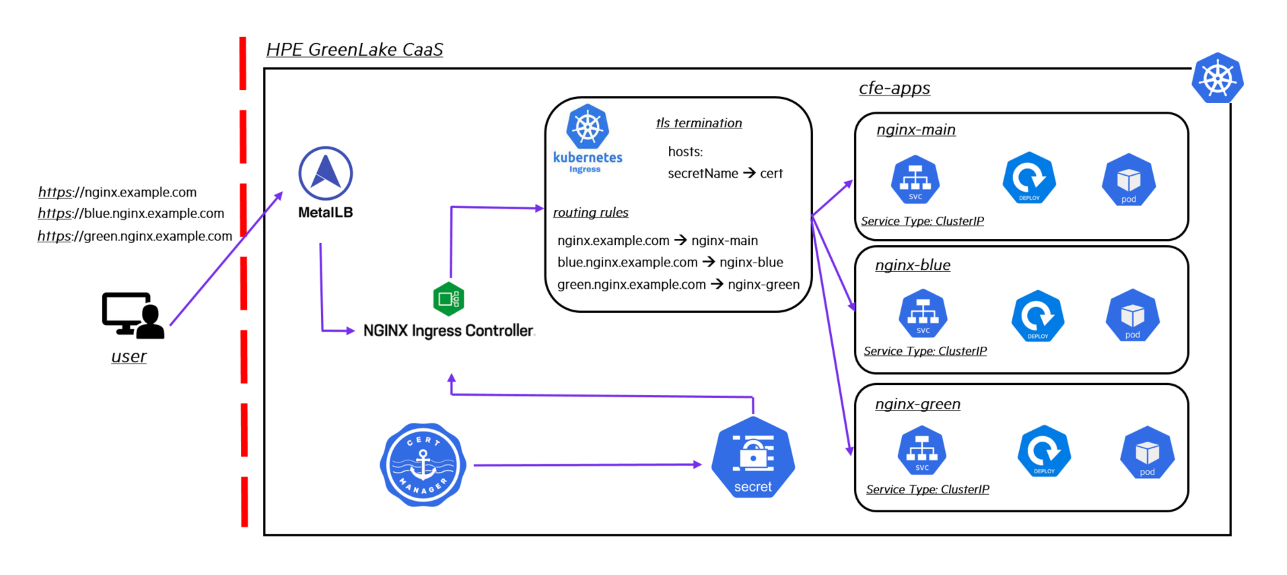
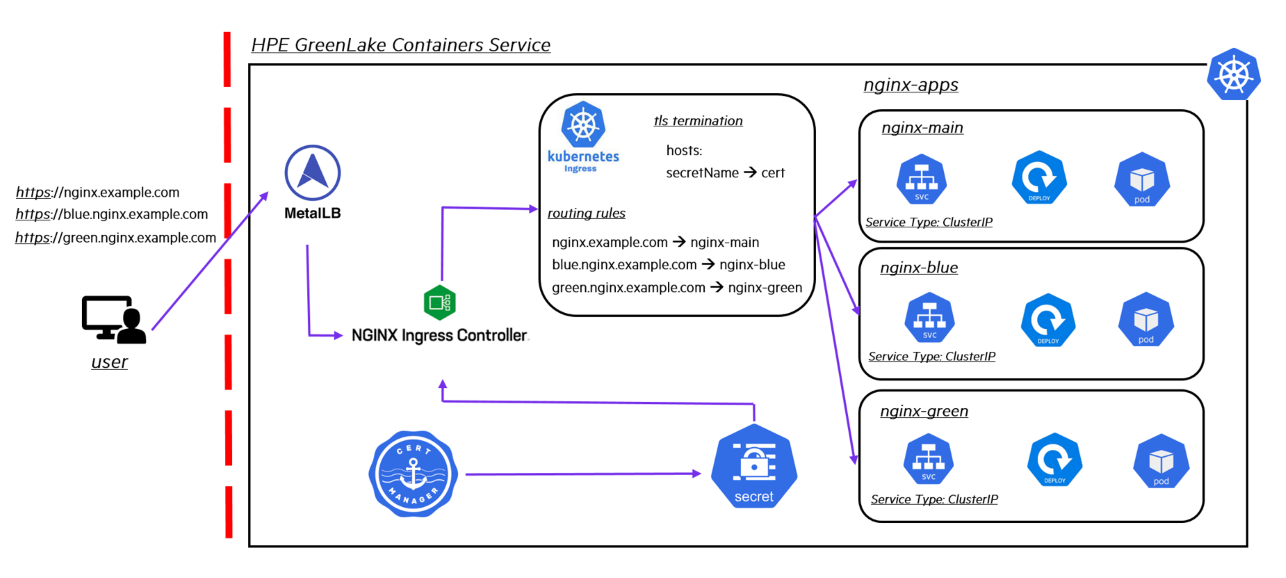
Update Blog “exposing-an-application-using-ingress-and-tls-termination-on-kubernetes-in-hpe-greenlake-for-private-cloud-enterprise”

Changed region(s): [[0.0, 0.0591, 0.9953, 0.9757], [0.7776, 0.7391, 0.8398, 0.8574]]

diff --git a/content/blog/exposing-an-application-using-ingress-and-tls-termination-on-kubernetes-in-hpe-greenlake-for-private-cloud-enterprise.md b/content/blog/exposing-an-application-using-ingress-and-tls-termination-on-kubernetes-in-hpe-greenlake-for-private-cloud-enterprise.md
@@ -24,9 +24,11 @@ This blog post describes the process to expose applications that are deployed an
 
 ### Overview
 
-[HPE GreenLake for Private Cloud Enterprise: Containers](https://www.hpe.com/us/en/greenlake/containers.html), one of the HPE GreenLake cloud services available on the HPE GreenLake for Private Cloud Enterprise, allows customers to create a Kubernetes (K8s) cluster, view details about existing clusters, and deploy containerized applications to the cluster. It provides an enterprise-grade container management service using open source K8s.  
+[HPE GreenLake for Private Cloud Enterprise: Containers](https://www.hpe.com/us/en/greenlake/containers.html) ("containers service"), one of the HPE GreenLake cloud services available on the HPE GreenLake for Private Cloud Enterprise, allows customers to create a K8s cluster and deploy containerized applications to the cluster. It provides an enterprise-grade container management service using open source K8s.  
  
-Once applications are deployed in a cluster, the first thing you can do is to create services to expose the applications. By default, services are created with the service types of *ClusterIP* that support internal connectivity between different components of the applications. In HPE GreenLake for Private Cloud Enterprise: Containers, you can create services with the type of NodePort for the application workloads deployed in K8s clusters using the label hpecp.hpe.com/hpecp-internal-gateway=true. The services will be automatically exposed to a container platform gateway host with assigned ports. The deployed workloads will become accessible externally using the gateway host name and the assigned ports as access URLs. For both service type, *ClusterIP* and NodePort , applications themselves run on HTTP. There is one common requirement to expose the applications to be accessed securely over HTTPS. This requires to get a valid SSL/TLS certificate in K8s and work with load balancers and Ingress.
+Once applications are deployed in a cluster, you can start creating services to expose the applications. By default, services are created with the service types of *ClusterIP* that support internal connectivity between different components of the applications. However, they are not accessible from outside the cluster. Exposing applications and making them securely accessible over HTTPS can be challenging. Generating and managing SSL/TLS certificates for multiple application services deployed in the cluster can be complex. These certificates are necessary for secure service communication and they need to be correctly installed and managed to avoid any access problem and security risks. The K8s Ingress can be configured with TLS termination to support application access over HTTPS. However, setting up K8s Ingress can be intricate. It involves creating a K8s *Secret* to host the certificate and private key, and referencing the Secret in the Ingress resource. It may also require an additional load balancer configuration in the cluster. 
+
+This blog post outlines the comprehensive steps for exposing applications via K8s Ingress and implementing TLS termination on K8s within the HPE GreenLake for Private Cloud Enterprise. The load balancer in the cluster is set up using *MetalLB*. *Cert-manager* is utilized for the creation and management of SSL/TLS certificates, which are stored as a K8s *Secret* object and made accessible to the entire cluster upon creation. Among various Ingress controllers such as Traefik and HAProxy, the Nginx Ingress controller is deployed and configured in the cluster to access and manage the SSL certificate. Despite the complexities, the exposure of applications in K8s over HTTPS is achievable with the appropriate tools and utilities within the HPE GreenLake for Private Cloud Enterprise.
 
 ![](/img/tls-termination-s.png)
 
